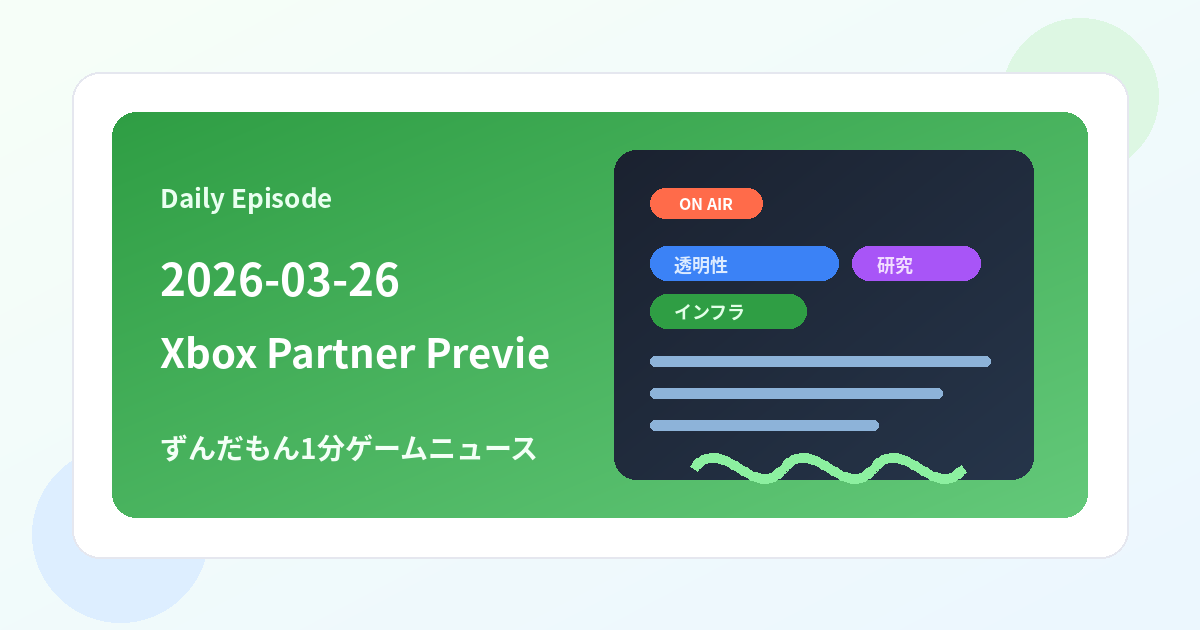
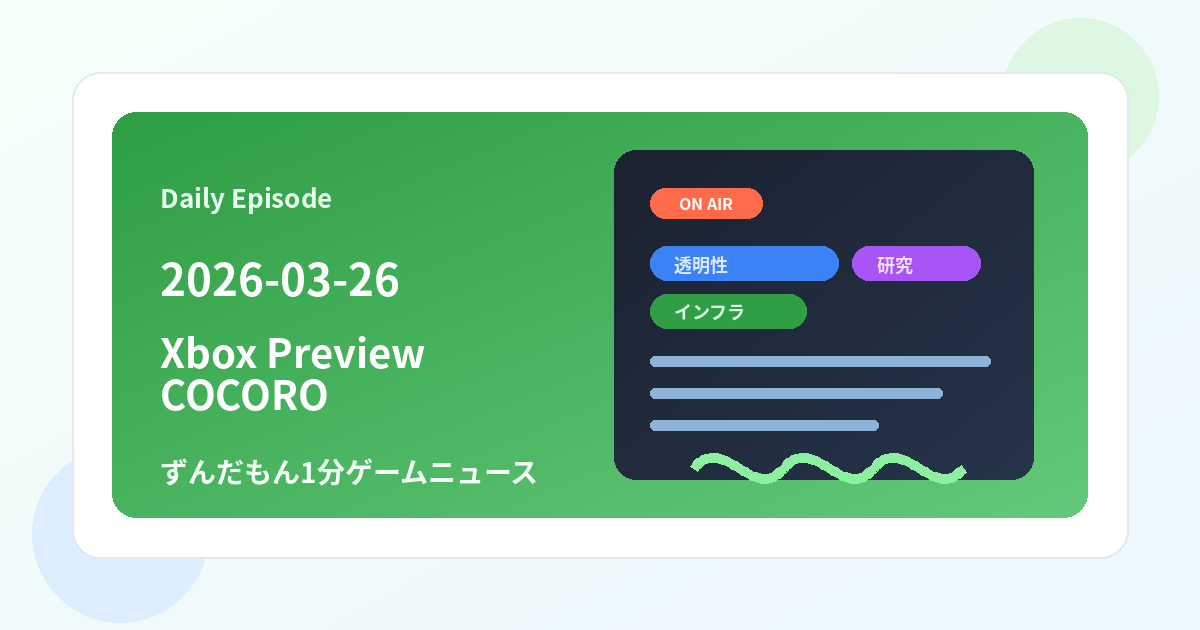
Shorten 2026-03-26 OGP topic title

Changed region(s): [[0.1233, 0.6937, 0.4625, 0.7841], [0.1233, 0.5429, 0.4625, 0.6635]]

diff --git a/episodes/2026-03-26.md b/episodes/2026-03-26.md
@@ -1,4 +1,4 @@
-# Xbox Partner Preview・COCORO・RPGツクール新展開
+# Xbox Preview・COCORO・RPGツクール新展開
 
 ## Theme
 game
